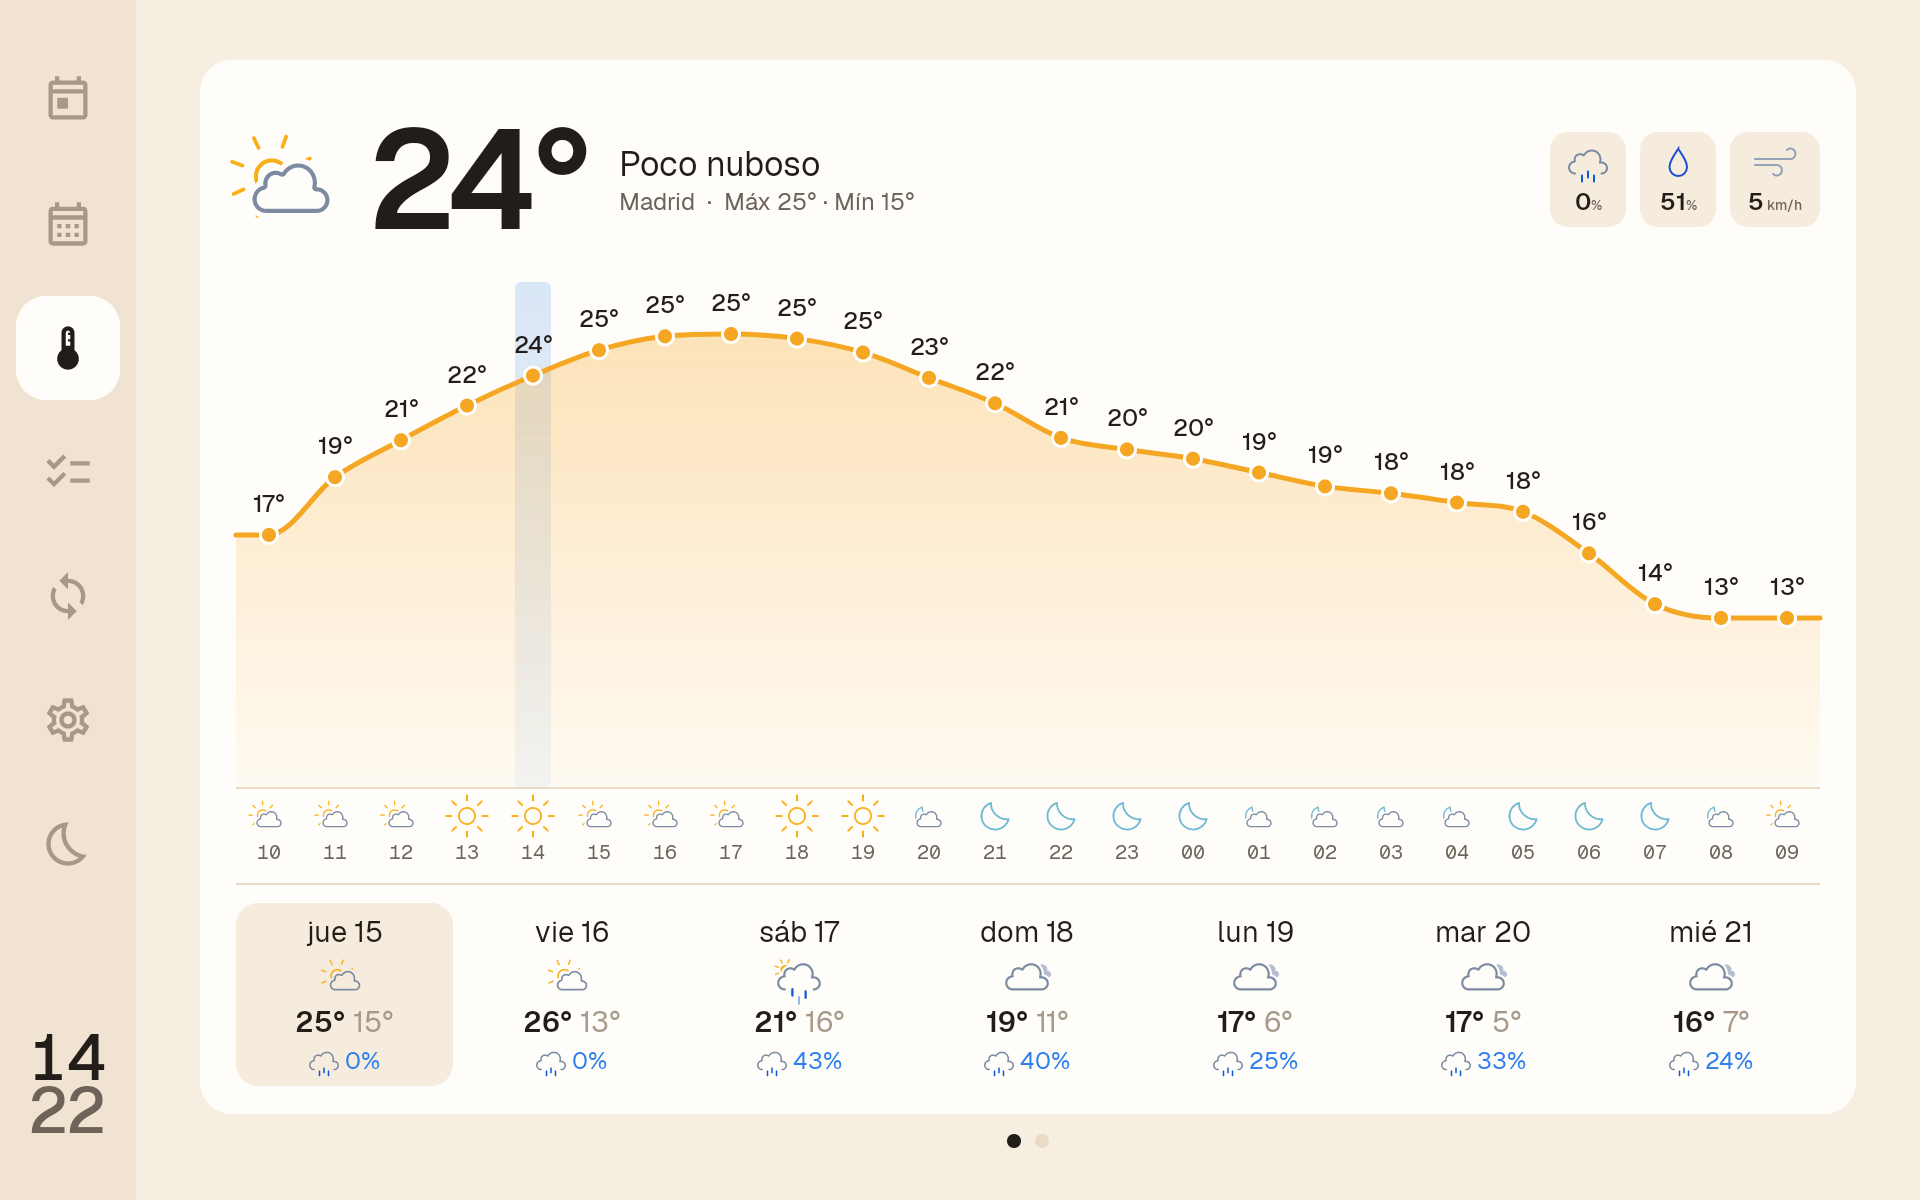
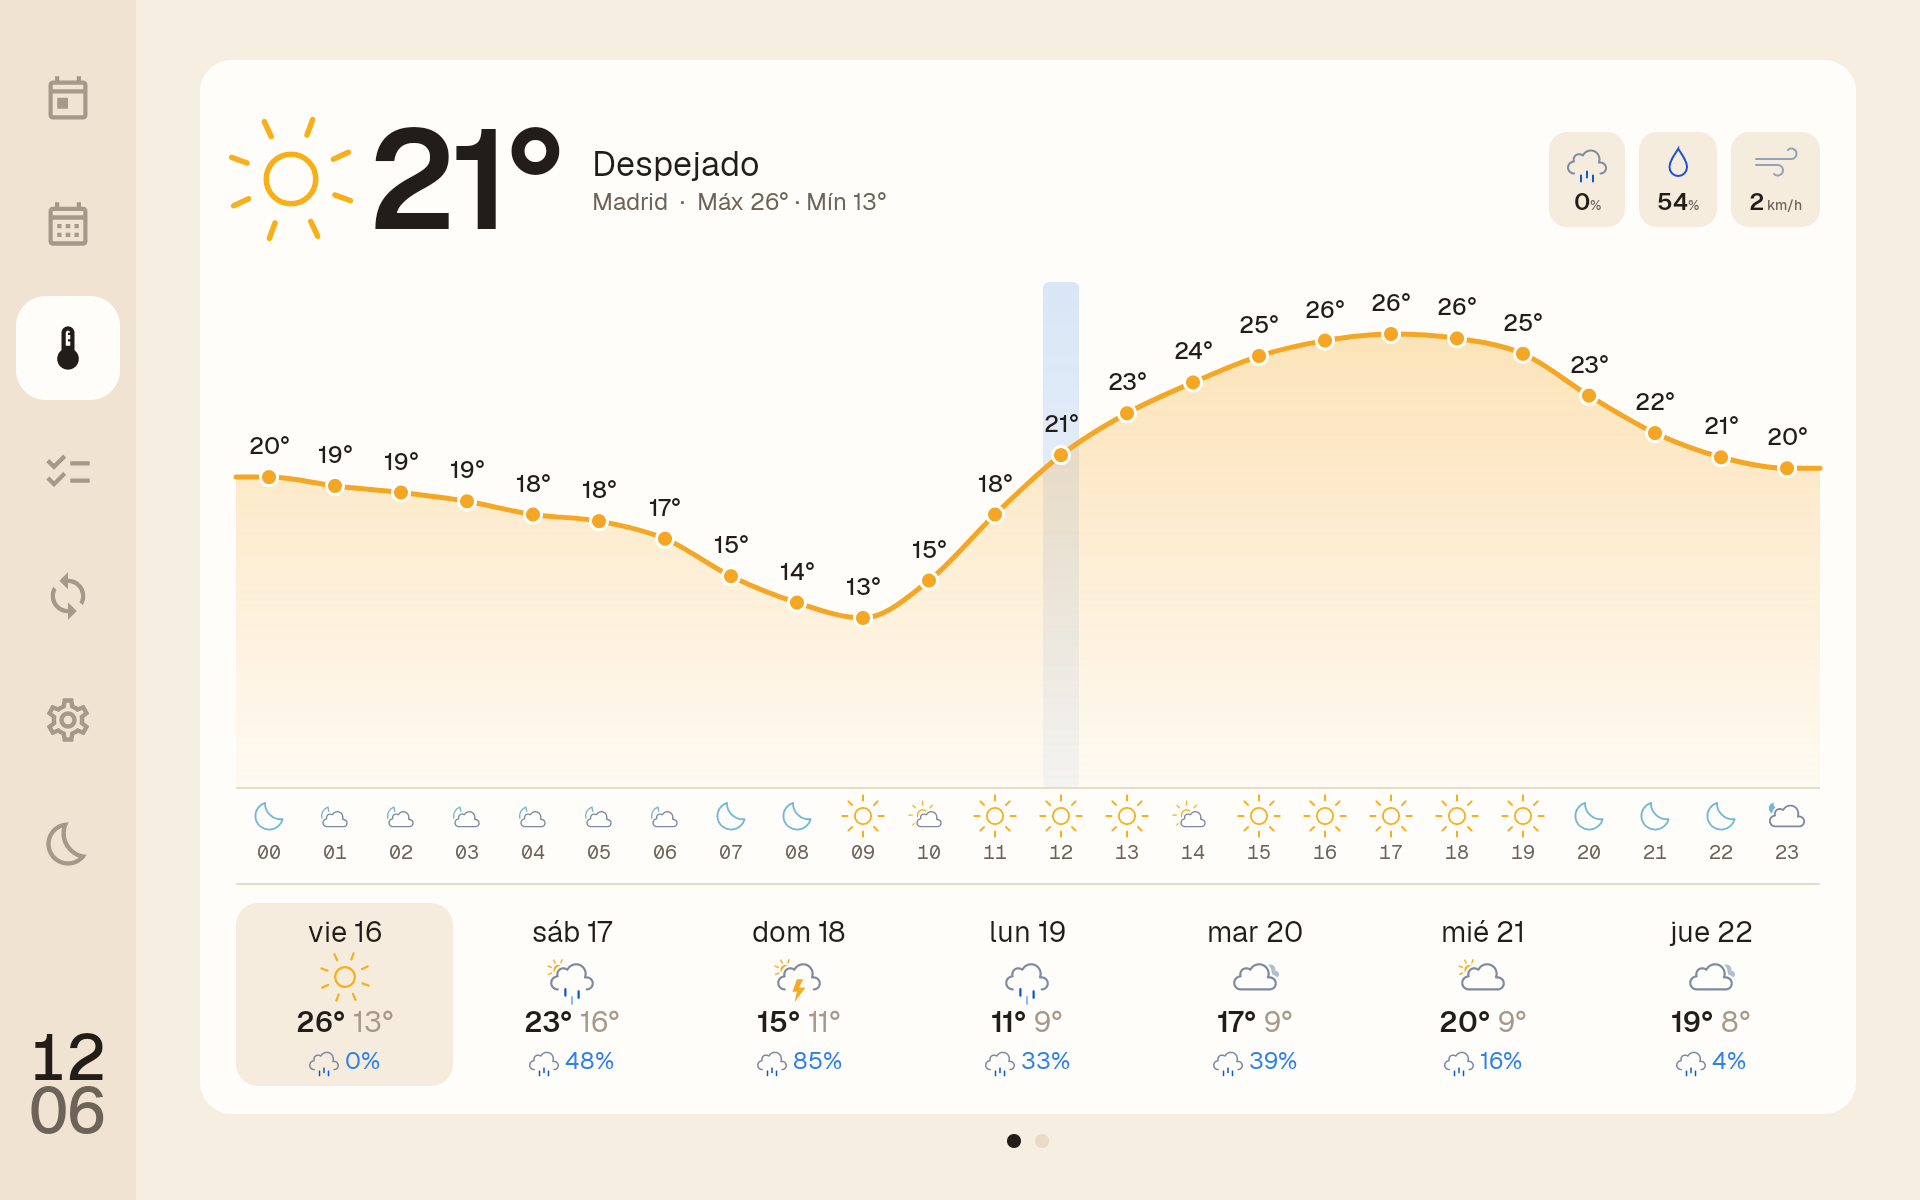
Tiempo: la gráfica también es el día de hoy entero, como en Hoy
La pantalla Tiempo enseñaba de 4 horas antes a 19 después; ahora, como Hoy, el día
de hoy de 00 a 23 con la banda de la hora actual. README, ARCHITECTURE y la captura,
al día.

diff --git a/android/app/src/main/java/com/lito/planify/dashboard/ui/WeatherUi.kt b/android/app/src/main/java/com/lito/planify/dashboard/ui/WeatherUi.kt
@@ -137,7 +137,7 @@ fun Path.smoothThrough(xs: List<Float>, ys: List<Float>) {
     }
 }
 
-/** Horas que enseñan las gráficas: [HOURS_BEFORE] antes de la actual, la actual y las siguientes, hasta 24. */
+/** Sin [day] (si la previsión no trae las horas de hoy): [HOURS_BEFORE] antes de la actual y las siguientes, hasta 24. */
 const val HOURS_BEFORE = 4
 const val HOURS_SHOWN = 24
 
@@ -145,7 +145,7 @@ const val HOURS_SHOWN = 24
  * Previsión hora a hora: las [HOURS_BEFORE] anteriores, la actual (marcada con una línea) y las siguientes hasta
  * [HOURS_SHOWN]: curva de temperatura con relleno y su valor; barras de probabilidad de lluvia con su %, solo donde
  * llueve; debajo, el icono del tiempo de cada hora ([iconSize], estático) y, abajo del todo, la hora con dos dígitos.
- * Con [day], las 24 horas de ese día (de 00 a 23) en vez de las de ahora.
+ * Con [day], que es lo normal (las tarjetas pasan hoy o el día tocado), las 24 horas de ese día, de 00 a 23.
  */
 @Composable
 fun HourlyForecast(forecast: Forecast, now: LocalDateTime, modifier: Modifier = Modifier, iconSize: Int = 36, day: LocalDate? = null) {
@@ -260,7 +260,7 @@ fun HourlyForecast(forecast: Forecast, now: LocalDateTime, modifier: Modifier = 
 /**
  * Tarjeta del tiempo: icono, temperatura y estado; lluvia, humedad y viento; la previsión hora a hora
  * ([HourlyForecast]) y los próximos [days] días en columnas. [compact] reduce la cabecera y los
- * días para dejar sitio a la gráfica cuando la tarjeta es baja (Hoy); ahí la gráfica enseña el día de hoy entero.
+ * días para dejar sitio a la gráfica cuando la tarjeta es baja (Hoy). La gráfica enseña el día de hoy entero.
  * Al tocar otro día, la cabecera y la gráfica pasan a ese día por horas; tocarlo de nuevo, o hoy, vuelve a
  * ahora, y también vuelve solo a los 2 minutos.
  */
@@ -289,8 +289,8 @@ fun WeatherCard(
             .padding(horizontal = 36.dp, vertical = 28.dp)
     ) {
         WeatherHeader(forecast, location, today, selected, compact)
-        // En Hoy, la gráfica es siempre el día entero (de 00 a 23) y la banda de la hora actual avanza por ella
-        val hours = selected ?: today.takeIf { compact && forecast.hasHours(it) }
+        // La gráfica es siempre un día entero (de 00 a 23): hoy, con la banda de la hora actual avanzando por ella
+        val hours = selected ?: today.takeIf { forecast.hasHours(it) }
         HourlyForecast(forecast, now, Modifier.fillMaxWidth().weight(1f).padding(top = 12.dp), iconSize = if (compact) 28 else 36, day = hours)
         // La gráfica del día y los días quedan separados por una línea
         Hairline(Modifier.padding(top = if (compact) 12.dp else 18.dp, bottom = if (compact) 12.dp else 18.dp))

diff --git a/docs/ARCHITECTURE.md b/docs/ARCHITECTURE.md
@@ -12,7 +12,7 @@ Sin sesión iniciada se muestra el login (icono de Planify y formulario, centrad
   - Arriba, en 1/3, la hora y la fecha centradas y el **siguiente** evento (tarjeta del color de su calendario: sus personas y, a la derecha, lo que falta en una píldora, como en la lista de próximos eventos; debajo, el título y el día y la hora). Ese evento no se repite en la lista de próximos eventos. En 2/3, la **tarjeta del tiempo**: icono, temperatura y estado; lluvia del día, humedad y viento como iconos con su valor (Meteocons estáticos); la curva hora a hora del día de hoy, de 00 a 23 h (la hora actual marcada con una banda azul translúcida; la temperatura de todas las horas, pequeña y sin «°») con barras de probabilidad de lluvia solo donde llueve; debajo, el icono del tiempo de cada hora y, abajo del todo, la hora; y, separados por una línea, los días en columnas, que se deslizan para ver la semana siguiente (vuelven a la primera a los 2 minutos). Al tocar un día, la cabecera y la curva pasan a ese día; tocarlo otra vez, o tocar hoy, vuelve a hoy (y vuelve solo a los 2 minutos).
   - Abajo, **próximos eventos** con el formato del widget de la app (barra de color, "MIÉ 14 OCT · 16:00" con el tiempo que falta en una píldora, título y personas; los pasados en gris), **rutinas de hoy** (la lista, con la siguiente resaltada y las pasadas atenuadas) y **tareas** por lista, sin casillas porque no se pueden marcar.
 - **Calendario:** semanas de lunes a domingo, deslizando a izquierda y derecha (un año hacia cada lado; "Volver a hoy" regresa a la actual). 7 columnas. La cabecera de cada día mide siempre lo mismo: día y número con el icono del tiempo a la derecha, y debajo mín / máx · lluvia (0 % si no llueve). Luego los eventos y, aparte, una banda de rutinas (hora y colores de las personas arriba, nombre debajo); los días pasados, atenuados. Cada semana se descarga al mostrarla, junto con las vecinas. Abajo, la leyenda de personas.
-- **Tiempo:** dos páginas que se deslizan. La primera es la tarjeta del tiempo a pantalla completa: 24 horas desde 4 antes de la actual hasta 19 después (en Hoy, en cambio, el día de hoy entero), con el icono de cada hora encima de la hora, y 7 días. La segunda, la **semana siguiente** (días 8 a 14): gráfica de máximas y mínimas, lluvia (% y mm) y viento, y las columnas de cada día. En las dos páginas, tocar un día abre sus 24 horas (en la segunda, en lugar de la gráfica semanal) y tocarlo otra vez lo cierra.
+- **Tiempo:** dos páginas que se deslizan. La primera es la tarjeta del tiempo a pantalla completa: el mismo día de hoy de 00 a 23 h que en Hoy, con el icono de cada hora encima de la hora, y 7 días. La segunda, la **semana siguiente** (días 8 a 14): gráfica de máximas y mínimas, lluvia (% y mm) y viento, y las columnas de cada día. En las dos páginas, tocar un día abre sus 24 horas (en la segunda, en lugar de la gráfica semanal) y tocarlo otra vez lo cierra.
 - **Iconos del tiempo:** [Meteocons](https://github.com/basmilius/meteocons) de Bas Milius (estilo *line*, licencia MIT, en `third_party/meteocons/`), uno por código WMO de Open-Meteo, de día o de noche. `scripts/meteocons.py` los descarga en la versión fijada, cambia los colores pensados para fondo oscuro (nubes, niebla y viento casi blancos) por tonos pizarra y los deja en `res/raw` (animados, Lottie) y `res/drawable` (los estáticos de la cabecera: nube con lluvia para la probabilidad, gota para la humedad y viento, con la unidad más pequeña). El código diario es el tiempo más significativo de todo el día (si hay niebla por la mañana, el día sale con niebla), así que la columna de hoy, en el tiempo y en el calendario, usa el tiempo de ahora, como la cabecera.
   - **Animados:** el icono de la cabecera y los de las columnas de días (Hoy, Tiempo y Calendario); la fila de horas, estática. Dibujar los Lottie en cada fotograma costaba 1–2 núcleos y subía el marco a 72 °C, así que cada icono se renderiza una vez en segundo plano a su tamaño exacto (90 fotogramas: su bucle de 6 s a 15 fps, caché de 48 MB) y animarlo es pintar un bitmap, todos sincronizados con un único reloj. Medido en el marco: Hoy 31 % de un núcleo, Tiempo 37 %, Calendario 25 %, sin pasar de 61 °C; la app ocupa unos 175 MB y quedan unos 400 MB libres. Con la pantalla apagada no se anima nada.
 - **Reloj:** en Hoy, un reloj de paletas (`FlipClock`): cada cifra en una placa grafito partida por la mitad y, al cambiar, la mitad de arriba cae y descubre la nueva (medio segundo, solo las cifras que cambian). En la barra lateral, las cifras se deslizan (`RollingText`). Las escalas de animación del sistema están a 0 en el marco, así que estas animaciones fuerzan su propia escala para verse.

diff --git a/README.md b/README.md
@@ -45,10 +45,10 @@ La semana de lunes a domingo, deslizando entre semanas: el tiempo de cada día, 
 <img src="docs/images/calendar.png" alt="Calendario" />
 
 ### Tiempo
-Dos páginas que se deslizan. La primera: las próximas 24 horas y 7 días. La segunda: la semana siguiente en gráfica (máximas, mínimas, lluvia y viento). Tocar cualquier día abre sus 24 horas con su propia cabecera.
+Dos páginas que se deslizan. La primera: el día de hoy por horas, de 00 a 23 con la hora actual marcada, y 7 días. La segunda: la semana siguiente en gráfica (máximas, mínimas, lluvia y viento). Tocar cualquier día abre sus 24 horas con su propia cabecera.
 
 <p align="center">
-  <img src="docs/images/weather.png" width="49%" alt="Tiempo: 24 horas y 7 días" />
+  <img src="docs/images/weather.png" width="49%" alt="Tiempo: hoy por horas y 7 días" />
   <img src="docs/images/weather-week.png" width="49%" alt="Tiempo: la semana siguiente" />
 </p>
 <p align="center">
@@ -271,7 +271,7 @@ Barra lateral con Hoy, Calendario, Tiempo, Tareas, sincronizar, Ajustes y apagar
 |---|---|
 | **Hoy** | Reloj de paletas (split-flap), el siguiente evento con cuenta atrás, el tiempo (ahora, el día de hoy de 00 a 23 h con la hora actual marcada y los próximos días, que se deslizan), próximos eventos, rutinas de hoy y tareas |
 | **Calendario** | Semana a semana (deslizando): el tiempo de cada día, los eventos, una banda aparte para las rutinas y los colores de cada persona |
-| **Tiempo** | 24 horas y 7 días; la semana siguiente en gráfica; tocar un día abre sus 24 horas con su cabecera |
+| **Tiempo** | Hoy de 00 a 23 h y 7 días; la semana siguiente en gráfica; tocar un día abre sus 24 horas con su cabecera |
 | **Tareas** | Todas las listas elegidas, en columnas |
 | **Reloj nocturno** | Fuera de horario, o al pulsar la luna: hora, fecha y tiempo sobre negro con el brillo al mínimo; tocarlo enseña el dashboard |
 | **Ajustes** | Ubicación del tiempo (Open-Meteo), horario de pantalla (con reloj nocturno o apagado), brillo y Sistema: estado del Wi-Fi, Ajustes de Android, cerrar sesión y apagar o reiniciar |
